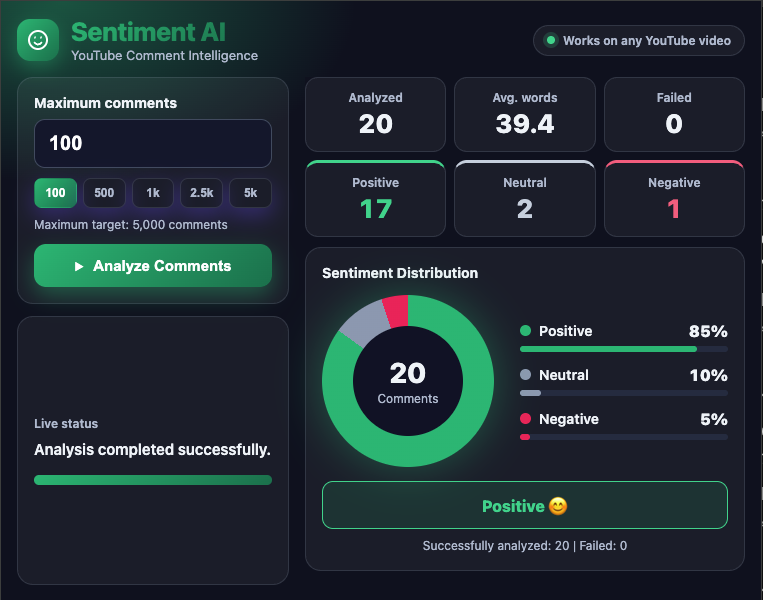
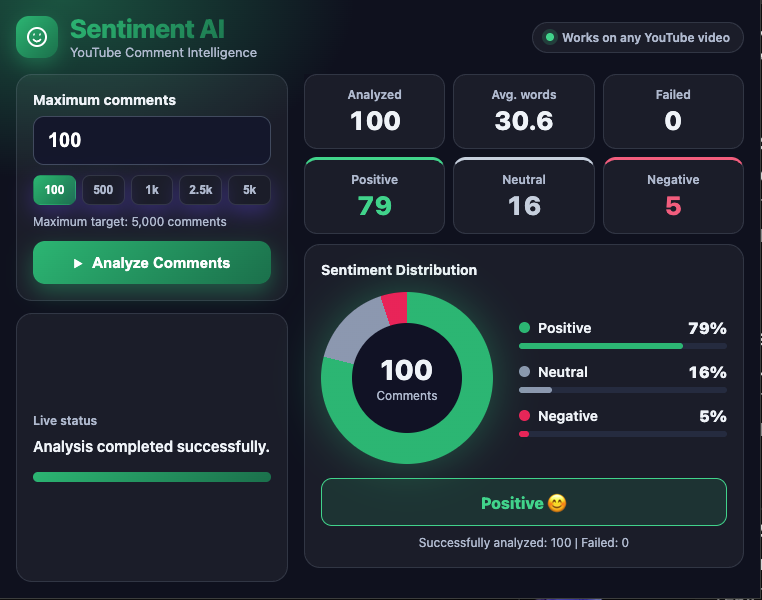
fix(content): collect full requested comment count by triggering YouTube lazy-load

diff --git a/extention/content.js b/extention/content.js
@@ -1,4 +1,3 @@
-
 console.log("Sentiment AI: Content script loaded");
 
 let collectionCancelled = false;
@@ -7,102 +6,163 @@ let isCollecting = false;
 const sleep = (ms) =>
   new Promise((resolve) => setTimeout(resolve, ms));
 
-function getCommentNodes() {
-  return document.querySelectorAll(
-    "ytd-comment-thread-renderer #content-text"
-  );
+/* ---------- DOM helpers ---------- */
+
+function getThreads() {
+  return document.querySelectorAll("ytd-comment-thread-renderer");
 }
 
-function collectVisibleComments(comments) {
-  getCommentNodes().forEach((node) => {
-    const text = node.innerText?.trim();
+// The "loading spinner" item at the bottom of the comment list.
+// When it enters the viewport, YouTube loads the next batch.
+// We ignore the "show more replies" continuation items.
+function findContinuation() {
+  const items = Array.from(
+    document.querySelectorAll("ytd-comments ytd-continuation-item-renderer")
+  ).filter((el) => !el.closest("ytd-comment-replies-renderer"));
 
+  return items[items.length - 1] || null;
+}
+
+function getCommentId(thread) {
+  const link = thread.querySelector('a[href*="lc="]');
+  if (!link) return null;
+
+  try {
+    return new URL(link.href, location.origin).searchParams.get("lc");
+  } catch {
+    return null;
+  }
+}
+
+/* ---------- Collection ---------- */
+
+// state = { seen: WeakSet, ids: Set, texts: [] }
+function collectVisibleComments(state) {
+  getThreads().forEach((thread) => {
+    if (state.seen.has(thread)) return;
+
+    // Top-level comment text only (first #content-text in the thread).
+    const text = thread.querySelector("#content-text")?.innerText?.trim();
+
+    // Not rendered yet: don't mark as seen, we'll retry next round.
     if (!text) return;
 
-    // Keep separate comments even if their text is identical,
-    // when YouTube exposes a distinct comment thread ID.
-    const thread = node.closest("ytd-comment-thread-renderer");
-    const id = thread?.getAttribute("id");
+    state.seen.add(thread);
 
-    const key = id || text;
-
-    if (!comments.has(key)) {
-      comments.set(key, {
-        id: key,
-        text
-      });
+    const id = getCommentId(thread);
+    if (id) {
+      if (state.ids.has(id)) return;
+      state.ids.add(id);
     }
+
+    state.texts.push(text);
   });
 }
 
 function sendCollectionProgress(count, target) {
-  chrome.runtime.sendMessage({
-    type: "COLLECTION_PROGRESS",
-    collected: count,
-    target
-  }).catch(() => {});
+  chrome.runtime
+    .sendMessage({
+      type: "COLLECTION_PROGRESS",
+      collected: count,
+      target
+    })
+    .catch(() => {});
+}
+
+// Scroll so that YouTube's continuation item enters the viewport,
+// then "wiggle" so the IntersectionObserver fires again.
+async function triggerLoadMore() {
+  const threads = getThreads();
+  const last = threads[threads.length - 1];
+
+  last?.scrollIntoView({ block: "end", behavior: "instant" });
+
+  const continuation = findContinuation();
+  continuation?.scrollIntoView({ block: "center", behavior: "instant" });
+
+  await sleep(150);
+  window.scrollBy({ top: -400, behavior: "instant" });
+  await sleep(150);
+  window.scrollBy({ top: 800, behavior: "instant" });
 }
 
 async function autoScrollAndFetchAll(maxComments = 1000) {
-  const comments = new Map();
-  let unchangedRounds = 0;
-  let previousCount = 0;
+  const state = {
+    seen: new WeakSet(),
+    ids: new Set(),
+    texts: []
+  };
+
+  const MAX_STALLS = 6;                 // consecutive rounds with no new comments
+  const MAX_TIME = 15 * 60 * 1000;      // 15 min safety limit
+  const WAIT_STEP = 300;                // ms
+  const WAIT_ROUNDS = 20;               // 20 * 300ms = up to 6s per batch
+
+  let stalls = 0;
+  const startTime = Date.now();
 
   // Allow YouTube to render the comments section.
   await sleep(1000);
 
   const commentsSection = document.querySelector("#comments");
-
   if (commentsSection) {
     commentsSection.scrollIntoView({
       behavior: "instant",
       block: "start"
     });
-    await sleep(1000);
+    await sleep(1500);
   }
 
-  for (let round = 0; round < 100; round++) {
-    if (collectionCancelled) {
-      break;
-    }
+  while (Date.now() - startTime < MAX_TIME) {
+    if (collectionCancelled) break;
 
-    collectVisibleComments(comments);
-
-    if (comments.size >= maxComments) {
-      break;
-    }
+    collectVisibleComments(state);
 
     sendCollectionProgress(
-      Math.min(comments.size, maxComments),
+      Math.min(state.texts.length, maxComments),
       maxComments
     );
 
-    if (comments.size === previousCount) {
-      unchangedRounds++;
+    if (state.texts.length >= maxComments) break;
+
+    const before = getThreads().length;
+
+    await triggerLoadMore();
+
+    // Poll until new threads appear (works on slow internet too).
+    let grew = false;
+    for (let i = 0; i < WAIT_ROUNDS; i++) {
+      await sleep(WAIT_STEP);
+      if (collectionCancelled) break;
+
+      if (getThreads().length > before) {
+        grew = true;
+        break;
+      }
+    }
+
+    if (collectionCancelled) break;
+
+    if (grew) {
+      stalls = 0;
+      await sleep(300); // let the new batch finish rendering
     } else {
-      unchangedRounds = 0;
+      // If there is no continuation spinner left, the video has
+      // no more comments, so stop sooner.
+      stalls += findContinuation() ? 1 : 2;
+      if (stalls >= MAX_STALLS) break;
     }
-
-    if (unchangedRounds >= 8) {
-      break;
-    }
-
-    previousCount = comments.size;
-
-    window.scrollBy({
-      top: Math.max(window.innerHeight * 1.5, 1200),
-      behavior: "instant"
-    });
-
-    await sleep(1000);
   }
 
-  collectVisibleComments(comments);
+  collectVisibleComments(state);
 
-  return Array.from(comments.values())
-    .slice(0, maxComments)
-    .map((item) => item.text);
+  const result = state.texts.slice(0, maxComments);
+  sendCollectionProgress(result.length, maxComments);
+
+  return result;
 }
+
+/* ---------- Messaging ---------- */
 
 chrome.runtime.onMessage.addListener(
   (message, sender, sendResponse) => {
